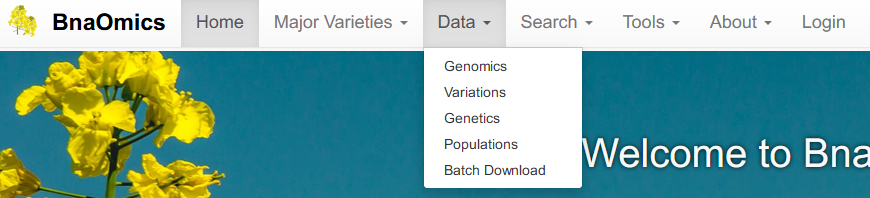
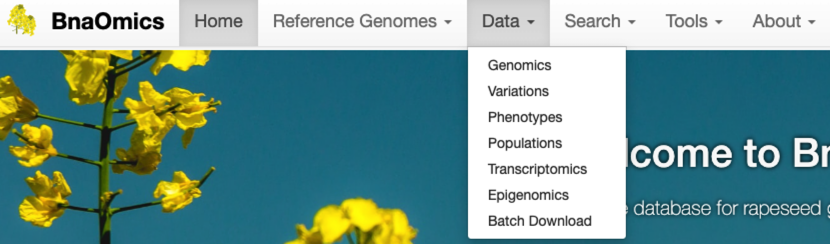
update data pages

diff --git a/data/index.rst b/data/index.rst
@@ -12,5 +12,8 @@ and selected the desired data.
 
     Genomics
     Variations
-    Genetics
+    Phyenotypes
     Populations
+    Transcriptomics
+    Epigenomics
+

diff --git a/data/Transcriptomics.rst b/data/Transcriptomics.rst
@@ -1,0 +1,7 @@
+Transcriptomics
+==========
+
+Users can access transcriptomics data in this page.
+
+.. figure:: /_static/transcriptomics.png
+   :alt: 

diff --git a/data/Epigenomics.rst b/data/Epigenomics.rst
@@ -1,0 +1,7 @@
+Epigenomics
+==========
+
+Users can access epigenomics data in this page.
+
+.. figure:: /_static/epigenomics.png
+   :alt: 

diff --git a/data/Phyenotypes.rst b/data/Phyenotypes.rst
@@ -1,0 +1,7 @@
+Genetics
+========
+
+Users can access phyenotypes data in this page.
+
+.. figure:: /_static/phyenotypes.png
+   :alt: 
